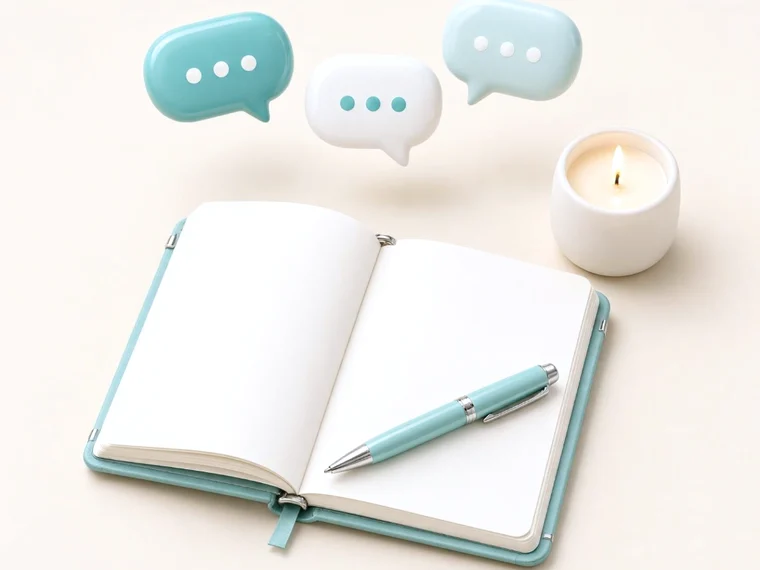
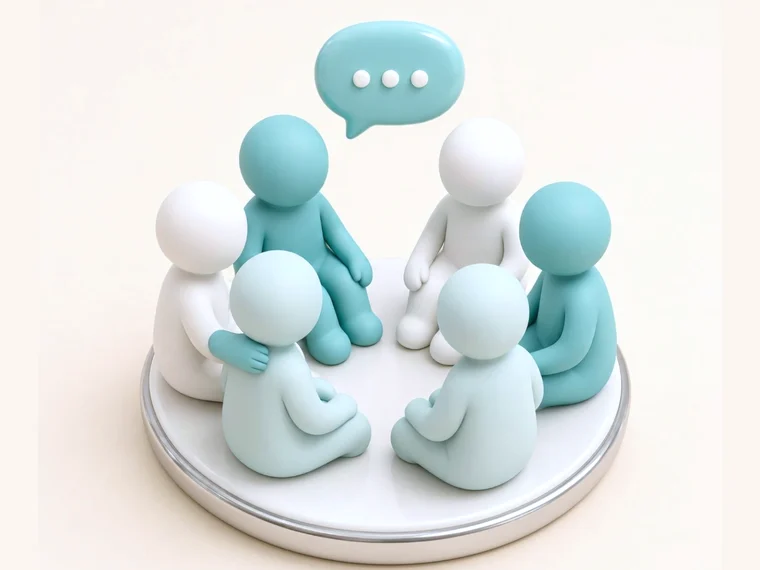
Ноутинг: картинка — группа в общем стиле

diff --git a/index.html b/index.html
@@ -444,7 +444,7 @@ footer{background:var(--teal2);color:#fff}
         <button class="tab" role="tab" aria-selected="false" data-s="4">Пакеты сессий</button>
       </div>
       <div class="svc-body">
-        <img id="svc-img" src="img/il-diag.webp?v=2" alt="" loading="lazy">
+        <img id="svc-img" src="img/il-diag.webp?v=3" alt="" loading="lazy">
         <div>
           <div class="svc-card" data-c="1"><h3><img src="img/i-diagnostics.webp" alt="">Диагностика</h3><p>Ознакомительная встреча, на которой вы можете рассказать о своей ситуации и почувствовать, комфортно ли вам со мной как со специалистом. Где я помогаю прояснить суть запроса, даже если сейчас он ощущается размытым, и даю первичное понимание возможного пути работы.</p><div class="kv"><b>Формат:</b> онлайн<br><b>Длительность:</b> 60 минут<br><b>Стоимость:</b> 2 500 ₽ <s>5 000 ₽</s> — скидка 50% на первую консультацию</div></div>
           <div class="svc-card" data-c="2" hidden><h3><img src="img/i-online.webp" alt="">Консультация</h3><p>Глубокая работа с конкретным запросом. На консультации мы проясняем запрос, выходим на причинный уровень и мягко прорабатываем его, снижая эмоциональное и внутреннее напряжение. Даже одна сессия помогает вернуть ясность, опору и более устойчивое состояние.</p><div class="kv"><b>Формат:</b> онлайн<br><b>Длительность:</b> 60 минут<br><b>Стоимость:</b> 5 000 ₽</div></div>
@@ -556,7 +556,7 @@ function drawSvc(){
 }
 const IL={1:'il-diag',2:'il-kons',3:'il-group',4:'il-packages'};
 const stabs=[...document.querySelectorAll('.svc-tabs .tab')],scards=[...document.querySelectorAll('.svc-card')];
-stabs.forEach(t=>t.addEventListener('click',()=>{stabs.forEach(x=>{const on=x===t;x.classList.toggle('on',on);x.setAttribute('aria-selected',on)});scards.forEach(c=>c.hidden=c.dataset.c!==t.dataset.s);document.getElementById('svc-img').src='img/'+IL[t.dataset.s]+'.webp?v=2';drawSvc()}));
+stabs.forEach(t=>t.addEventListener('click',()=>{stabs.forEach(x=>{const on=x===t;x.classList.toggle('on',on);x.setAttribute('aria-selected',on)});scards.forEach(c=>c.hidden=c.dataset.c!==t.dataset.s);document.getElementById('svc-img').src='img/'+IL[t.dataset.s]+'.webp?v=3';drawSvc()}));
 function redraw(){document.querySelectorAll('[data-scheme]').forEach(drawScheme);drawSvc();}
 window.addEventListener('load',redraw);window.addEventListener('resize',()=>{clearTimeout(window.__rt);window.__rt=setTimeout(redraw,120)});
 if(document.fonts)document.fonts.ready.then(redraw);
